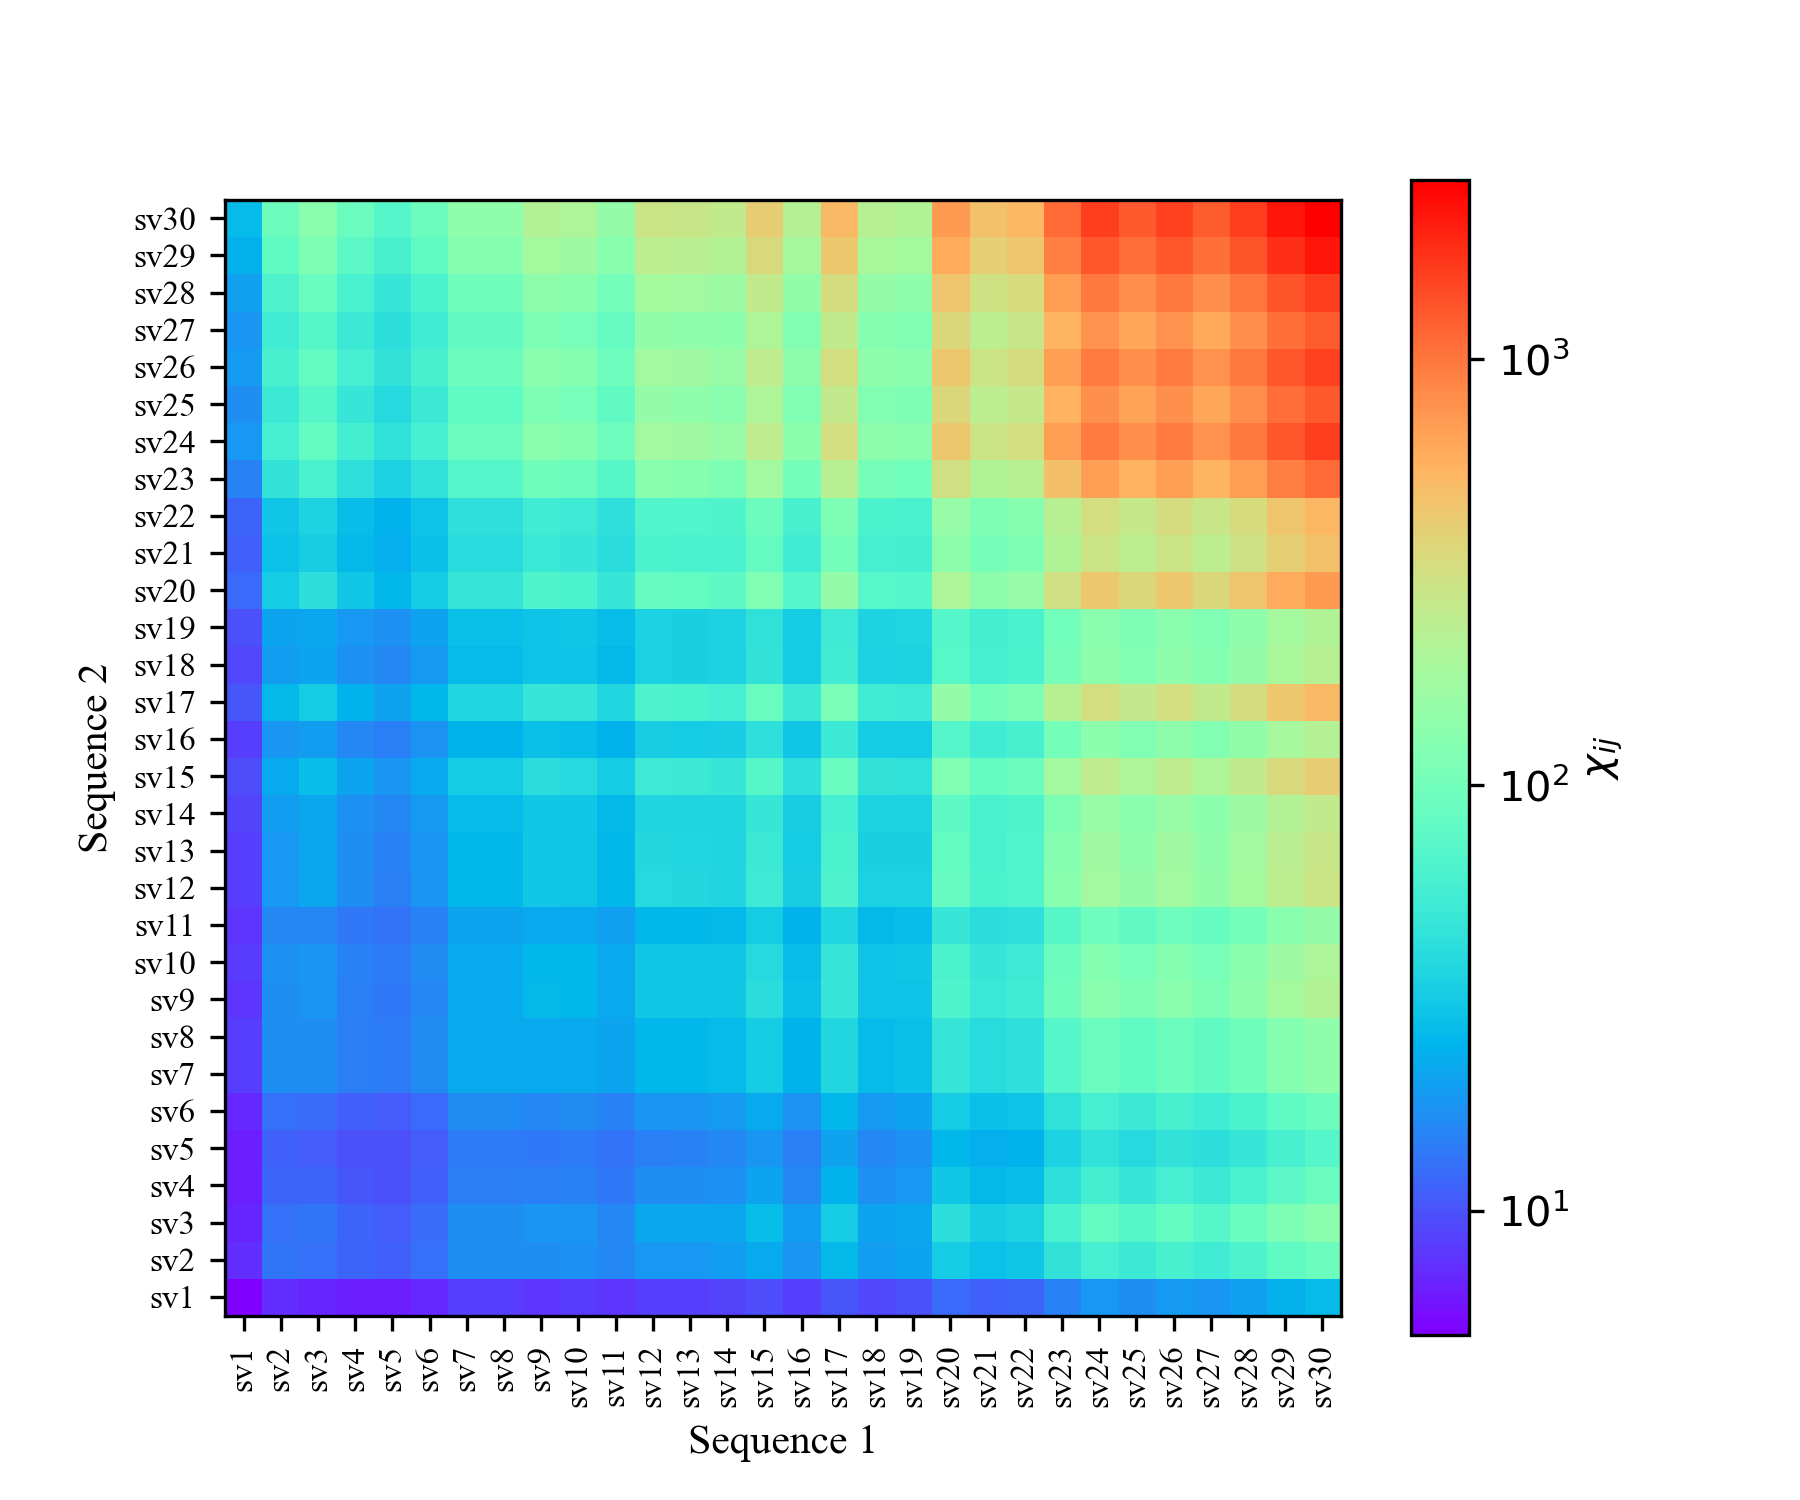
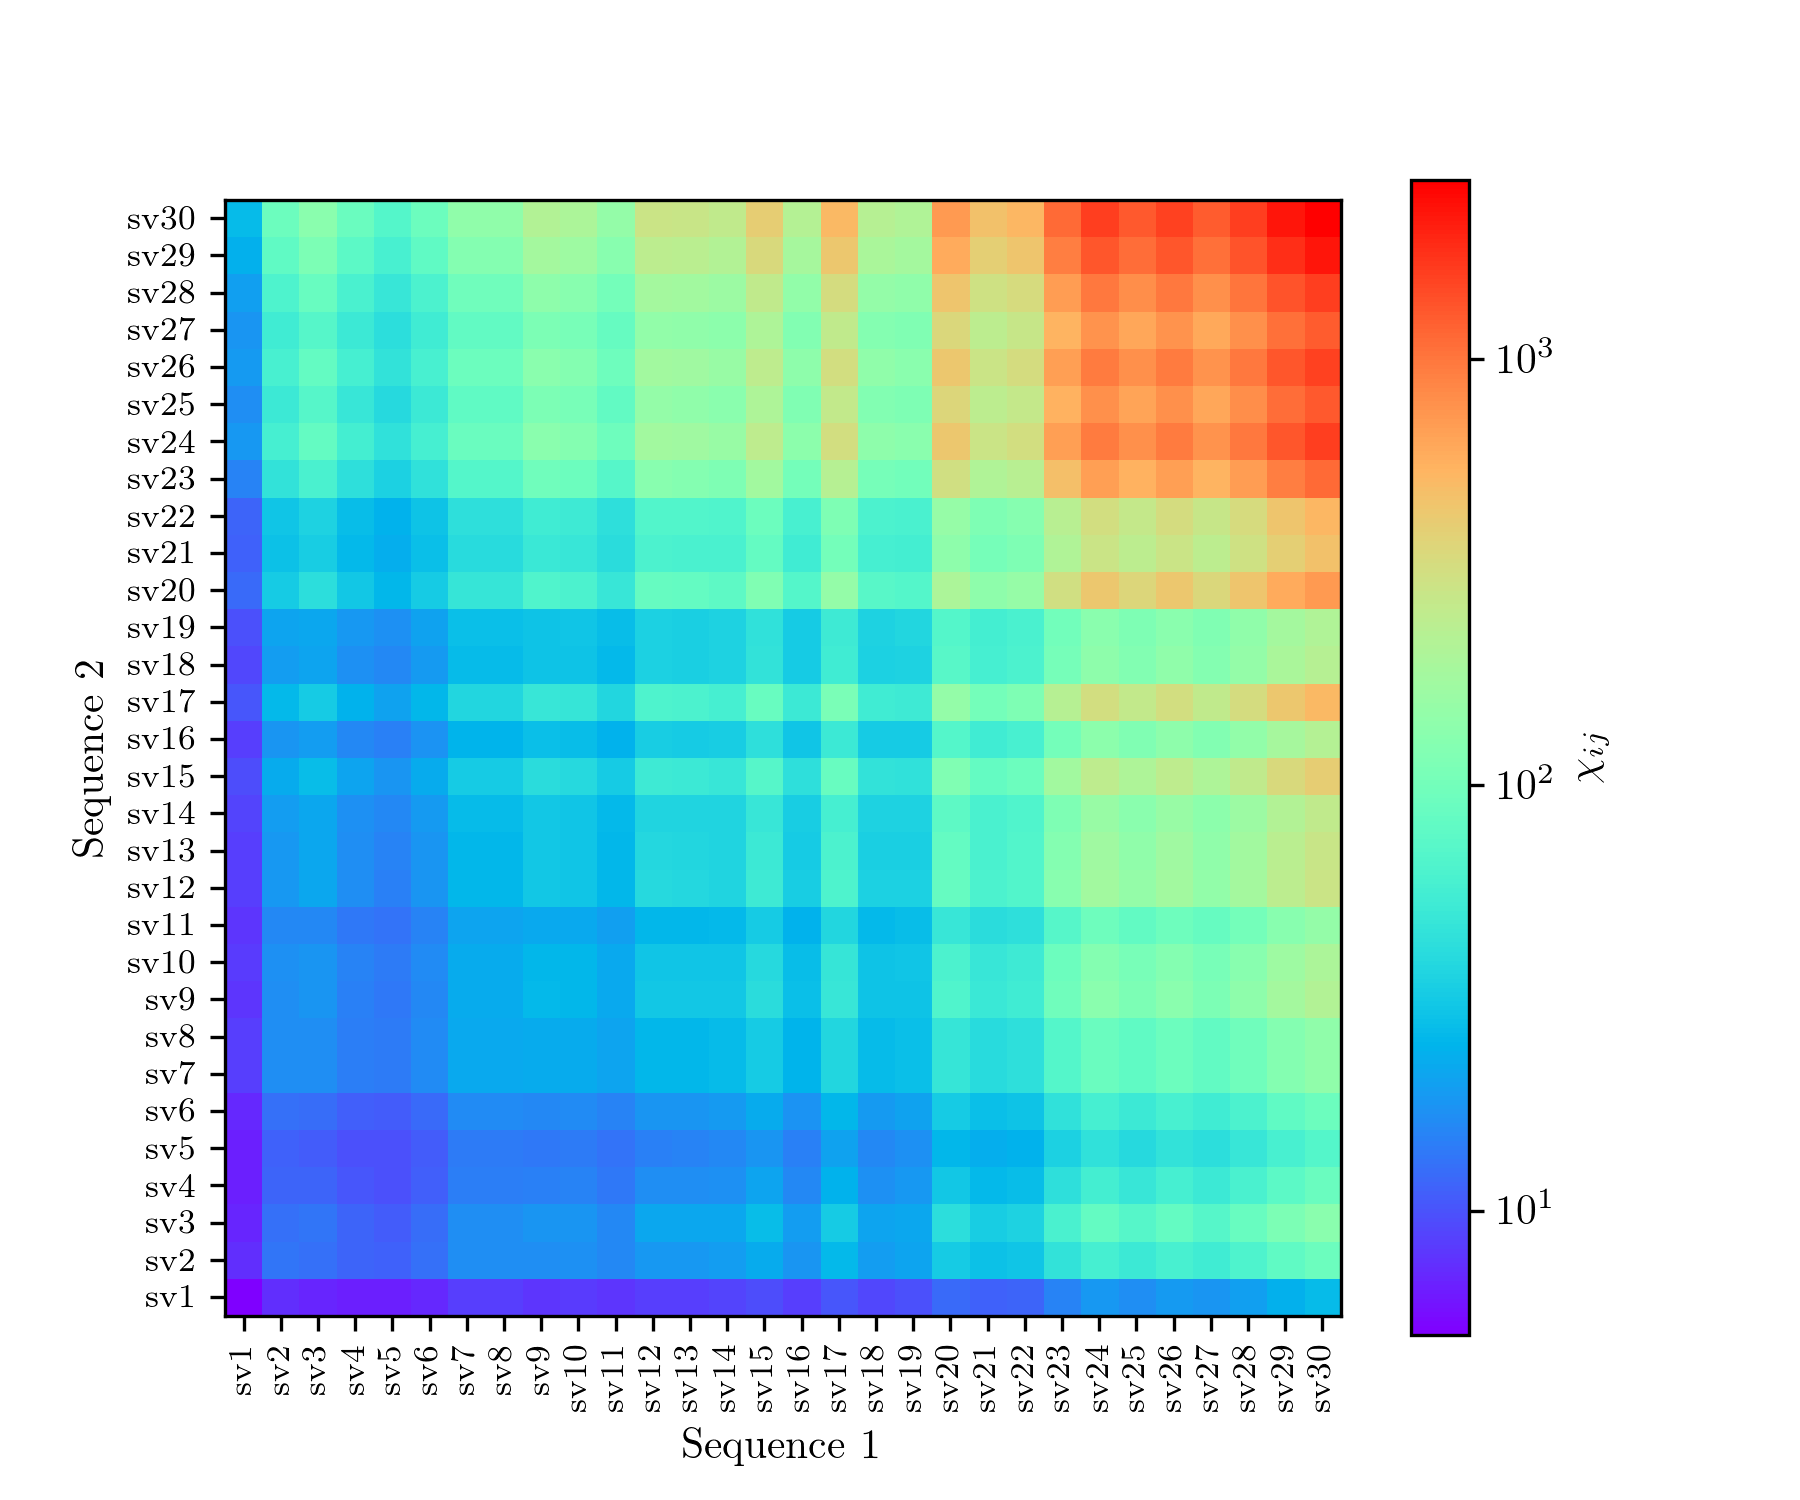
Update readme, LaTeX rendering in example figure

diff --git a/example_1.py b/example_1.py
@@ -2,6 +2,7 @@ from epic_idp import chi_effective_calculator
 import numpy as np
 import matplotlib.pyplot as plt
 plt.rcParams['font.family'] = 'Times New Roman'
+plt.rcParams['text.usetex'] = True
 
 # E/K 50-mer sequences from Das and Pappu, PNAS, 2013. DOI: https://www.pnas.org/doi/abs/10.1073/pnas.1304749110
 seqs = {}

diff --git a/README.md b/README.md
@@ -4,33 +4,6 @@
 
 EPIC-IDP (Effective Protein Interaction Calculator for Intrinsically Disordered Proteins) is a Python package for calculating interaction strengths between intrinsically disordered proteins (IDPs), as quantified by a matrix of effective Flory-Huggins $\chi_{ij}$ parameters, using the IDP amino-acid sequences as input. The $\chi_{ij}$ parameters give information about the propensity to form phase-separated biomolecular condensates and about the partitioning of client proteins inside these condensates. The program accounts for short-range interactions using a mean-field treatment and for long-range electrostatic interactions using the random phase approximation (RPA) theory.
 
-### Background
-
-The main function of the program is to compute $\chi_{ij}$ using the following equation:
-
-$`
-\chi_{ij} = \left( \chi_{\rm h}^{(0)} \right)_{ij} + \left( \chi_{\rm e}^{(0)} \right)_{ij} + \left( \chi_{\rm e}^{(1)} \right)_{ij} 
-`$
-
-where the three terms correspond to:
-- $`\left( \chi_{\rm h}^{(0)} \right)_{ij}`$: Effective $\chi_{ij}$ parameter following from a mean-field treatment of short-range non-electrostatic interactions (e.g., hydrophobic interactions or cation-$`\pi`$ interactions). This only depends on the amino-acid content (composition), but not the residue order (sequence), of the involved proteins.
-- $`\left( \chi_{\rm e}^{(0)} \right)_{ij}`$: Effective $\chi_{ij}$ parameter following from a mean-field treatment of long-range electrostatic interactions. This only depends on the net charge per chain of the two proteins.
-- $`\left( \chi_{\rm e}^{(1)} \right)_{ij}`$: The first order correction from electrostatic interactions that follows from RPA theory. This term accounts for charge sequence patterns in the amino-acid sequences, and can thus distinguish between IDPs with same composition but different sequences.
-
-The individual contributions are given by
-
-$`
-( \chi_{\rm h}^{(0)} )_{ij} = - ( \int \mathrm{d} \mathbf{r} \, V_{\rm h}(|\mathbf{r}|) ) \frac{\rho_0}{2N_i N_j} \sum_{\alpha=1}^{N_i} \sum_{\beta = 1}^{N_j} \varepsilon_{r^{(i)}_\alpha , r^{(j)}_\beta } \, . 
-`$
-
-$`
-\left( \chi_{\rm e}^{(0)} \right)_{ij} = - \frac{2 \pi l_{\rm B} \rho_0 }{\kappa^2} \sigma_i \sigma_j \, . 
-`$
-
-$`
-\left( \chi_{\rm e}^{(1)} \right)_{ij} = 2 \pi l_{\rm B}^2 \rho_0 \int_0^{\infty}  {\rm d} k \frac{k^2}{\left( k^2 +  \kappa^2 \right)^2} \frac{g_i(k)}{N_i}\frac{g_j(k)}{N_j} 
-`$
-
 ### Usage
 
 To use the package, you first define a `chi_effective_calculator` instance which takes interaction parameter values as input, e.g.
@@ -92,3 +65,32 @@ cec.calc_all_chi_eff()
 ### Example
 
 ![Effective Chi Parameter Calculation](chi_eff_sv_sequences.png)
+
+
+### Background
+
+The main function of the program is to compute $\chi_{ij}$ using the following equation:
+
+$`
+\chi_{ij} = \left( \chi_{\rm h}^{(0)} \right)_{ij} + \left( \chi_{\rm e}^{(0)} \right)_{ij} + \left( \chi_{\rm e}^{(1)} \right)_{ij} 
+`$
+
+where the three terms correspond to:
+- $`\left( \chi_{\rm h}^{(0)} \right)_{ij}`$: Effective $\chi_{ij}$ parameter following from a mean-field treatment of short-range non-electrostatic interactions (e.g., hydrophobic interactions or cation-$`\pi`$ interactions). This only depends on the amino-acid content (composition), but not the residue order (sequence), of the involved proteins.
+- $`\left( \chi_{\rm e}^{(0)} \right)_{ij}`$: Effective $\chi_{ij}$ parameter following from a mean-field treatment of long-range electrostatic interactions. This only depends on the net charge per chain of the two proteins.
+- $`\left( \chi_{\rm e}^{(1)} \right)_{ij}`$: The first order correction from electrostatic interactions that follows from RPA theory. This term accounts for charge sequence patterns in the amino-acid sequences, and can thus distinguish between IDPs with same composition but different sequences.
+
+The individual contributions are given by
+
+$`
+( \chi_{\rm h}^{(0)} )_{ij} = - \left( \int \mathrm{d} \mathbf{r} \, V_{\rm h}(|\mathbf{r}|) \right) \frac{\rho_0}{2N_i N_j} \sum_{\alpha=1}^{N_i} \sum_{\beta = 1}^{N_j} \varepsilon_{r^{(i)}_\alpha , r^{(j)}_\beta } \, . 
+`$
+
+$`
+\left( \chi_{\rm e}^{(0)} \right)_{ij} = - \frac{2 \pi l_{\rm B} \rho_0 }{\kappa^2} \sigma_i \sigma_j \, . 
+`$
+
+$`
+\left( \chi_{\rm e}^{(1)} \right)_{ij} = 2 \pi l_{\rm B}^2 \rho_0 \int_0^{\infty}  {\rm d} k \frac{k^2}{\left( k^2 +  \kappa^2 \right)^2} \frac{g_i(k)}{N_i}\frac{g_j(k)}{N_j} 
+`$
+
